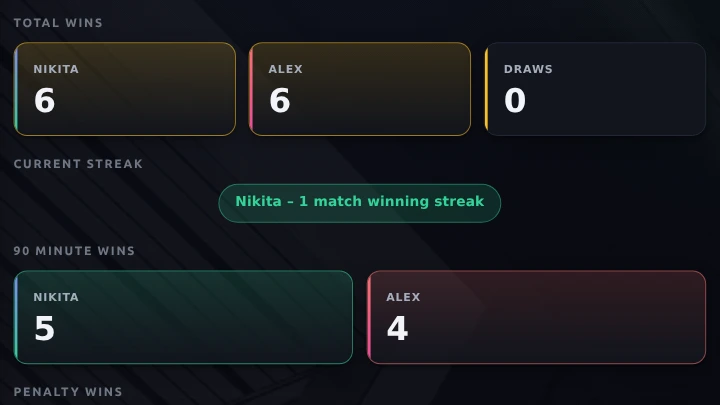
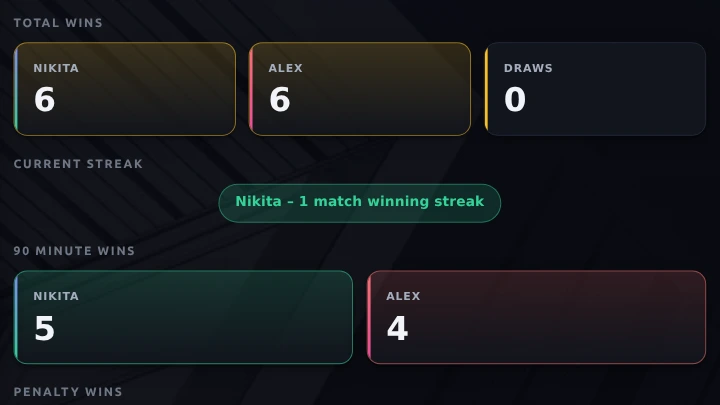
fix(apps hub): merge master, and move the preview generator out of the publish tree
The PR had gone CONFLICTING against master, which is why its last three
commits had no Actions checks at all: GitHub does not run pull_request
workflows when it cannot compute a merge commit, so tests/lint/browser
silently stopped firing after 03b0f02 rather than failing.

Merging master brought three things this branch has to answer for.

Four FINDINGS files conflicted, all the same shape: master appended entries
and so did this branch, neither touching the other's text. Both sides kept.

master's new publish-graph test caught a real defect in where this branch put
its generator. assets/ is served, tests/ is not, and a published module may
only import published modules - so assets/app-previews/build-previews.mjs
importing tests/browser/cdp.mjs would have shipped a broken module graph to
shevato.com. The generator and its seeds move to tests/app-previews/, which
is also the honest place for a dev-only tool that drives the browser harness.

master also added a ninth app, Quote Scout, whose card arrived with a preview
but without the stage wrapper the other eight now use - which would have
rendered the hub half framed and half not. It is wrapped like the rest. Its
screenshot is master's own capture and is left alone.

Node 22 is now required by .nvmrc and package.json engines; the suite is
green on it (6043 pass, 0 fail).

diff --git a/README.md b/README.md
@@ -147,10 +147,10 @@ fails, fix the ordering rather than the test.
    (commit the generated `images/og/<slug>.png`).
 11. `images/app-previews/<slug>.webp` (720x405, 16:9) - rendered from SAMPLE
     data only, never a real user's content. Do NOT capture this by hand. Add
-    the app to `assets/app-previews/build-previews.mjs` (and a dataset to
-    `assets/app-previews/seeds.mjs` if it needs seeded storage, copying the
+    the app to `tests/app-previews/build-previews.mjs` (and a dataset to
+    `tests/app-previews/seeds.mjs` if it needs seeded storage, copying the
     shapes from the app's own unit-test fixtures) and run
-    `node --experimental-websocket assets/app-previews/build-previews.mjs
+    `node --experimental-websocket tests/app-previews/build-previews.mjs
     <slug>`. The script drives the app, clicks through to the screen worth
     showing, and anchors the crop to a NAMED ELEMENT, so the framing matches
     the rest of the hub and a layout change fails the capture loudly instead

diff --git a/apps/gym-tracker/FINDINGS.md b/apps/gym-tracker/FINDINGS.md
@@ -1282,7 +1282,7 @@ undercounted west of UTC. Both now use the local-date helpers. Pinned in
   sessions and run the capture on a Monday and the tiles still report one
   workout and `0m`, because the week is one day old; dating sessions forward
   to fill it would put them in the future. The apps-hub preview
-  (`assets/app-previews/build-previews.mjs`) therefore clips the **Insights**
+  (`tests/app-previews/build-previews.mjs`) therefore clips the **Insights**
   view instead: volume by muscle group is a bar chart over the whole seeded
   year, so it reads the same on any day of the week. The seed is 144 sessions
   across 48 weeks, which is also what makes the year heatmap underneath look

diff --git a/apps/arena/FINDINGS.md b/apps/arena/FINDINGS.md
@@ -545,7 +545,7 @@ games the first time the scoring constants move.
   ceiling, under both swiftshader and ANGLE. Trivia is not a way round it -
   it has no solo mode and pulls questions from an external API. So Arena is
   the one app whose apps-hub preview is not built by
-  `assets/app-previews/build-previews.mjs`: its only capturable state is the
+  `tests/app-previews/build-previews.mjs`: its only capturable state is the
   lobby, which is a settings form, and the committed hand capture of a real
   round is the better thumbnail. Anything that needs to see the game surface
   in CI has the same problem and should assert on the DOM instead.

diff --git a/apps/fpl-planner/FINDINGS.md b/apps/fpl-planner/FINDINGS.md
@@ -1181,7 +1181,7 @@ with chips ON: +0 on all 72 trajectories, both instruments.
   tweaking a source file.
 - **The apps-hub preview is generated, not art: do not hand-edit it.**
   `images/app-previews/fpl-planner.webp` comes from
-  `assets/app-previews/build-previews.mjs`, which loads `?demo=1`, hides the
+  `tests/app-previews/build-previews.mjs`, which loads `?demo=1`, hides the
   `.fpl-sample-banner` (demo-mode scaffolding, not product), and clips a 16:9
   window centred on `.fpl-hero`. The banner has to go or the top third of the
   thumbnail is a disclaimer; the DATA is still the sample dataset either way,

diff --git a/apps/trip-planner/FINDINGS.md b/apps/trip-planner/FINDINGS.md
@@ -3740,7 +3740,7 @@ on the wire, and the claim above is true as of that bump.
 
 - **The apps-hub preview is generated, not art: do not hand-edit it.**
   `images/app-previews/trip-planner.webp` comes from
-  `assets/app-previews/build-previews.mjs`, which loads the app, clicks "Load
+  `tests/app-previews/build-previews.mjs`, which loads the app, clicks "Load
   an example trip" in the Timeline empty state, hides the resulting toast, and
   clips a 16:9 window over `#board`. The clip snaps to whole itinerary rows:
   it starts at the top of the first row and ends at the first row boundary AT

diff --git a/apps/mario-kart/FINDINGS.md b/apps/mario-kart/FINDINGS.md
@@ -230,7 +230,7 @@ layers), never the element's own `backgroundColor`, which here is
 
 - **The apps-hub preview is generated, not art: do not hand-edit it.**
   `images/app-previews/mario-kart.webp` comes from
-  `assets/app-previews/build-previews.mjs`, which seeds 14 races across three
+  `tests/app-previews/build-previews.mjs`, which seeds 14 races across three
   players and clips the **Stats** tab: four titled panels, each with one big
   number per player. Two other screens were tried and rejected on the
   rendered thumbnail, and the reasons generalise to any small rendering of

diff --git a/apps/maptap-rivals/FINDINGS.md b/apps/maptap-rivals/FINDINGS.md
@@ -1219,7 +1219,7 @@ on both sides with `(?!\d)`.
   follow.
 - **The apps-hub preview is generated, not art: do not hand-edit it.**
   `images/app-previews/maptap-rivals.webp` comes from
-  `assets/app-previews/build-previews.mjs`, which seeds three rivals and
+  `tests/app-previews/build-previews.mjs`, which seeds three rivals and
   twelve games and clips the **Matrix** tab. The dashboard's rivalry cards are
   the obvious subject and were tried first, but they cannot be framed: the
   card grid is 3.8:1 at desktop width, and at the narrower width where it

diff --git a/apps/football-h2h/FINDINGS.md b/apps/football-h2h/FINDINGS.md
@@ -246,7 +246,7 @@ button has a label.
 
 - **The apps-hub preview is generated, not art: do not hand-edit it.**
   `images/app-previews/football-h2h.webp` comes from
-  `assets/app-previews/build-previews.mjs`, which seeds two players and
+  `tests/app-previews/build-previews.mjs`, which seeds two players and
   twelve games and clips `#h2h-stats` - total wins, current streak, and the
   90-minute and penalty splits. That section measures 812x462 at a 1200px
   viewport, which is within a hair of the hub's 16:9 frame, so the capture is

diff --git a/apps/rising-shows/FINDINGS.md b/apps/rising-shows/FINDINGS.md
@@ -905,7 +905,7 @@ mode, not an oversight.
 
 - **The apps-hub preview needs the gitignored data present to build.**
   `images/app-previews/rising-shows.webp` comes from
-  `assets/app-previews/build-previews.mjs`, which clips the first row of
+  `tests/app-previews/build-previews.mjs`, which clips the first row of
   `.finder-card` results - posters, shape tags and the rating-trend
   sparklines. Unlike the other seven it seeds nothing, because the shows come
   from `data-index.json` and `data/`, which are gitignored and fetched
